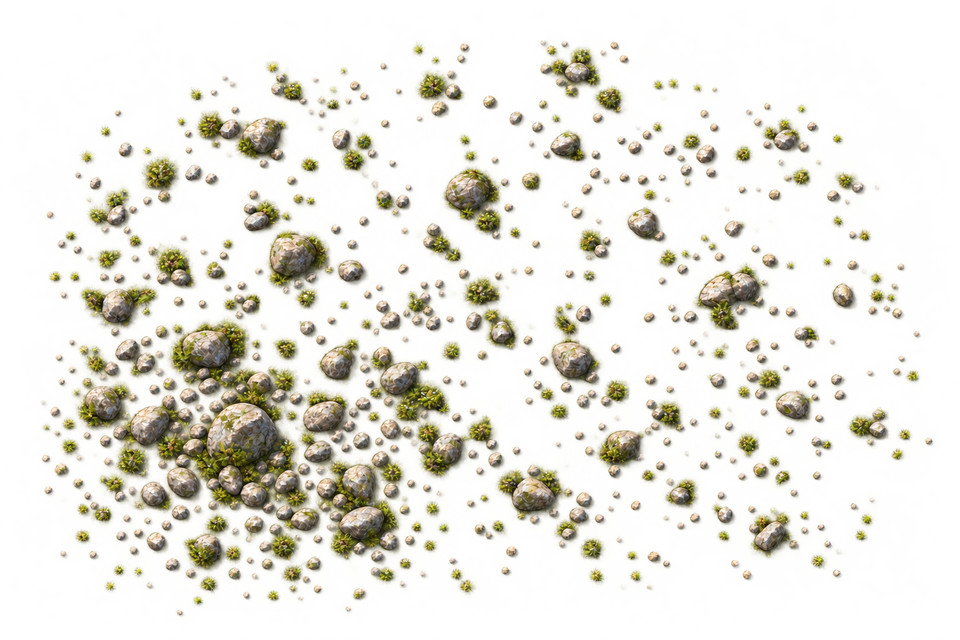
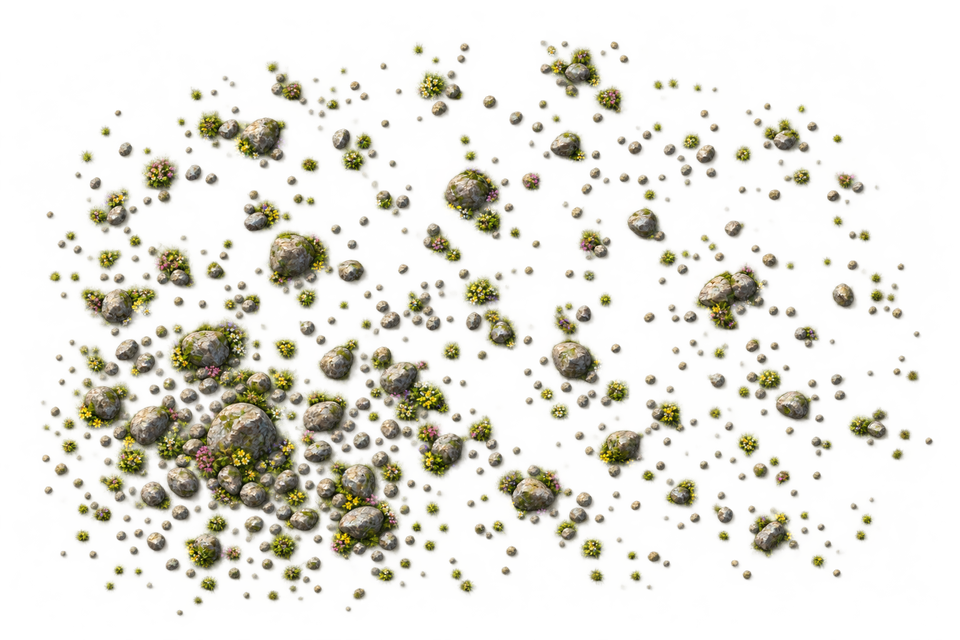
Spring boulder stamps: flower cushions at the stones' feet
The three spring boulder masters (-spring-v2) add yellow cowslips, white
anemones, violets and pink thrift in the tufts around the stones, laid onto
the summer cut-out so the stones, alpha and placement stay summer's.

Claude-Session: https://claude.ai/code/session_01L5uDarvbftJsD76ersxgnD

diff --git a/art/terrain/ground/prompt.md b/art/terrain/ground/prompt.md
@@ -4,7 +4,7 @@ title: Ground
 kind: terrain
 status: approved
 runtime_ids: mud, rough_w, shelled_w, stone, stoney_w, stamp/crater/4_-1.1_1.1_0.2/1, stamp/crater/4_-1.1_1.1_0.2/2, stamp/boulders/1/1, stamp/boulders/4_2.0_1.1_0.2/1, stamp/boulders/5_-1.1_0.2_-1.3_1.3/1, stamp/crater_w/1/1, stamp/crater_w/2_1.1/1, stamp/crater_w/2_-1.1/1, stamp/crater_w/6_-1.1_-4.2_-2.2_-3.3_-1.3/1, stamp/boulders_w/1/1, stamp/boulders_w/3_-1.1_-2.2/1, stamp/boulders_w/2_0.2/1
-masters: ground-crater-summer-v1.png, ground-crater-pair-summer-v1.png, ground-boulders-single-summer-v1.png, ground-boulders-four-summer-v1.png, ground-boulders-five-summer-v1.png, ground-mud-summer-v2.png, ground-stone-summer-v2.png, ground-rough-winter-v2.png, ground-shelled-winter-v2.png, ground-stony-winter-v2.png, ground-earth-bank-shared-v2.png, ground-earth-bank-shared-v1.png, ground-mud-summer-v1.png, ground-rough-winter-v1.png, ground-shelled-winter-v1.png, ground-stone-summer-v1.png, ground-stony-winter-v1.png, ground-crater-single-winter-v1.png, ground-crater-pair-se-winter-v1.png, ground-crater-pair-sw-winter-v1.png, ground-crater-field-six-winter-v1.png, ground-boulders-single-winter-v1.png, ground-boulders-sw-three-winter-v1.png, ground-boulders-vertical-two-winter-v1.png, ground-rough-winter-v3.png, ground-shelled-summer-v1.png, ground-shelled-winter-v3.png, ground-stone-autumn-v1.png, ground-boulders-five-autumn-v1.png, ground-boulders-four-autumn-v1.png, ground-boulders-single-autumn-v1.png, ground-crater-autumn-v1.png, ground-crater-pair-autumn-v1.png, ground-boulders-five-spring-v1.png, ground-boulders-four-spring-v1.png, ground-boulders-single-spring-v1.png, ground-crater-spring-v1.png, ground-crater-pair-spring-v1.png
+masters: ground-crater-summer-v1.png, ground-crater-pair-summer-v1.png, ground-boulders-single-summer-v1.png, ground-boulders-four-summer-v1.png, ground-boulders-five-summer-v1.png, ground-mud-summer-v2.png, ground-stone-summer-v2.png, ground-rough-winter-v2.png, ground-shelled-winter-v2.png, ground-stony-winter-v2.png, ground-earth-bank-shared-v2.png, ground-earth-bank-shared-v1.png, ground-mud-summer-v1.png, ground-rough-winter-v1.png, ground-shelled-winter-v1.png, ground-stone-summer-v1.png, ground-stony-winter-v1.png, ground-crater-single-winter-v1.png, ground-crater-pair-se-winter-v1.png, ground-crater-pair-sw-winter-v1.png, ground-crater-field-six-winter-v1.png, ground-boulders-single-winter-v1.png, ground-boulders-sw-three-winter-v1.png, ground-boulders-vertical-two-winter-v1.png, ground-rough-winter-v3.png, ground-shelled-summer-v1.png, ground-shelled-winter-v3.png, ground-stone-autumn-v1.png, ground-boulders-five-autumn-v1.png, ground-boulders-four-autumn-v1.png, ground-boulders-single-autumn-v1.png, ground-crater-autumn-v1.png, ground-crater-pair-autumn-v1.png, ground-boulders-five-spring-v1.png, ground-boulders-four-spring-v1.png, ground-boulders-single-spring-v1.png, ground-crater-spring-v1.png, ground-crater-pair-spring-v1.png, ground-boulders-single-spring-v2.png, ground-boulders-four-spring-v2.png, ground-boulders-five-spring-v2.png
 ---
 
 ## Look
@@ -84,6 +84,81 @@ Summer boulder stamps replace per-hex stone art across their complete clusters, 
 gaps over the shared meadow; winter stone art retains its context tiles.
 
 ## Post
+
+### Spring boulder-scatter bloom edit (2026-11-01)
+
+`ground-boulders-single-spring-v2.png` (`exec-3fa57416`, native 1374×1145 RGBA) is the flowering spring form of
+`ground-boulders-single-summer-v1.png` and replaces `-spring-v1` in the export. The edit adds cushions of yellow
+cowslips, white anemones, violets and pink thrift in the tufts at the stones' feet. It painted a meadow plate
+again (opaque 22.8 % against 5.5 %) and drifted (registered at scale 1.156, shift 24,12), so it is laid onto the summer cut-out: inside the
+summer alpha the edit's colour where either image is vegetation or the edit is a flower on summer vegetation,
+the summer pixel elsewhere; outside it only flowers within 36 px of the summer alpha (267 px). Whole RGB 118,109,78, L\* 45.1, hue 94
+(summer 113,104,76, L\* 43.2, hue 91). Selected: the spring terrain-stamps export takes it for `stamp/boulders/1/1_sp`. Attached:
+`ground-boulders-single-summer-v1.png` and `grass-spring-v1.png`. The prompt was:
+
+```text
+Seasonal edit ONLY of image 1, a cluster of grey boulders and pebbles with small grass tufts seen from straight above (strict nadir, 1374x1145 RGBA cut-out on transparency): turn it into the same spot in late April in full spring bloom. Keep the canvas size (1374x1145, 6:5 LANDSCAPE), the transparent area and every rock, slab and pebble exactly where it is, with its size and outline. Preserve every outline and position.
+Changes:
+- Spring wildflowers, the main change: at the foot of every larger boulder and in most grass tufts, add a low flowering cushion hugging the stone: clusters of yellow cowslips and primroses (about RGB 240,205,55), white wood anemones and daisies (about RGB 240,238,225), violet wild violets (about RGB 135,95,170) and a few pink thrift cushions (about RGB 215,125,160). Each cushion about 20 to 60 px across (1/25 to 1/60 of the canvas width), each flower head 4 to 8 px, clear dots of colour on fresh green leaves, not a haze. About 50 cushions in total, most beside the big stones; small pebbles get none or a single flower; nothing away from the stones.
+- Grass tufts and low shrubs: fresh young yellow-green spring grass as image 2 (lit blade tips near RGB 160,170,85, shaded near RGB 48,56,20).
+- Rocks: keep their shape and shading, tone the stone slightly darker and cooler (lit near RGB 170,166,152, shaded near RGB 85,84,78), with fresh bright green moss in the cracks and on the shaded sides.
+Unchanged: the soft upper-left light and short shadows, the strict nadir view.
+Transparency: alpha zero everywhere except the rocks, the tufts and the new flower cushions. No meadow plate or ground between the stones, no halo, no checkerboard, no background colour.
+Avoid: moving or resizing any rock, flowers floating away from the stones, a carpet of flowers over the whole canvas, saturated emerald or neon green, golden or straw cast, autumn colours, snow.
+
+Image 1 is the selected summer cut-out (ground-boulders-single-summer-v1) to edit: keep its layout, rock positions, sizes and transparency exactly. Image 2 is the selected spring meadow (grass-spring-v1), for the palette of the grass only; do not copy its layout.
+```
+
+
+### Spring four-boulder bloom edit (2026-11-01)
+
+`ground-boulders-four-spring-v2.png` (`exec-46336a17`, native 1536×1024 RGBA) is the flowering spring form of
+`ground-boulders-four-summer-v1.png` and replaces `-spring-v1` in the export. The edit adds cushions of yellow
+cowslips, white anemones, violets and pink thrift in the tufts at the stones' feet. It painted a meadow plate
+again (opaque 11.0 % against 4.1 %) and drifted (registered at scale 1.125, shift 27,14), so it is laid onto the summer cut-out: inside the
+summer alpha the edit's colour where either image is vegetation or the edit is a flower on summer vegetation,
+the summer pixel elsewhere; outside it only flowers within 36 px of the summer alpha (0 px). Whole RGB 127,119,91, L\* 49.2, hue 94
+(summer 125,117,92, L\* 48.4, hue 93). Selected: the spring terrain-stamps export takes it for `stamp/boulders/4_2.0_1.1_0.2/1_sp`. Attached:
+`ground-boulders-four-summer-v1.png` and `grass-spring-v1.png`. The prompt was:
+
+```text
+Seasonal edit ONLY of image 1, a cluster of grey boulders and pebbles with small grass tufts seen from straight above (strict nadir, 1536x1024 RGBA cut-out on transparency): turn it into the same spot in late April in full spring bloom. Keep the canvas size (1536x1024, 3:2 LANDSCAPE), the transparent area and every rock, slab and pebble exactly where it is, with its size and outline. Preserve every outline and position.
+Changes:
+- Spring wildflowers, the main change: at the foot of every larger boulder and in most grass tufts, add a low flowering cushion hugging the stone: clusters of yellow cowslips and primroses (about RGB 240,205,55), white wood anemones and daisies (about RGB 240,238,225), violet wild violets (about RGB 135,95,170) and a few pink thrift cushions (about RGB 215,125,160). Each cushion about 20 to 60 px across (1/25 to 1/60 of the canvas width), each flower head 4 to 8 px, clear dots of colour on fresh green leaves, not a haze. About 50 cushions in total, most beside the big stones; small pebbles get none or a single flower; nothing away from the stones.
+- Grass tufts and low shrubs: fresh young yellow-green spring grass as image 2 (lit blade tips near RGB 160,170,85, shaded near RGB 48,56,20).
+- Rocks: keep their shape and shading, tone the stone slightly darker and cooler (lit near RGB 170,166,152, shaded near RGB 85,84,78), with fresh bright green moss in the cracks and on the shaded sides.
+Unchanged: the soft upper-left light and short shadows, the strict nadir view.
+Transparency: alpha zero everywhere except the rocks, the tufts and the new flower cushions. No meadow plate or ground between the stones, no halo, no checkerboard, no background colour.
+Avoid: moving or resizing any rock, flowers floating away from the stones, a carpet of flowers over the whole canvas, saturated emerald or neon green, golden or straw cast, autumn colours, snow.
+
+Image 1 is the selected summer cut-out (ground-boulders-four-summer-v1) to edit: keep its layout, rock positions, sizes and transparency exactly. Image 2 is the selected spring meadow (grass-spring-v1), for the palette of the grass only; do not copy its layout.
+```
+
+
+### Spring five-boulder bloom edit (2026-11-01)
+
+`ground-boulders-five-spring-v2.png` (`exec-59d2f958`, native 1374×1145 RGBA) is the flowering spring form of
+`ground-boulders-five-summer-v1.png` and replaces `-spring-v1` in the export. The edit adds cushions of yellow
+cowslips, white anemones, violets and pink thrift in the tufts at the stones' feet. It painted a meadow plate
+again (opaque 31.5 % against 4.4 %) and drifted (registered at scale 1.006, shift 7,-1), so it is laid onto the summer cut-out: inside the
+summer alpha the edit's colour where either image is vegetation or the edit is a flower on summer vegetation,
+the summer pixel elsewhere; outside it only flowers within 36 px of the summer alpha (16 px). Whole RGB 117,111,76, L\* 45.8, hue 98, with fresh moss on the stones
+(summer 111,103,75, L\* 42.9, hue 94). Selected: the spring terrain-stamps export takes it for `stamp/boulders/5_-1.1_0.2_-1.3_1.3/1_sp`. Attached:
+`ground-boulders-five-summer-v1.png` and `grass-spring-v1.png`. The prompt was:
+
+```text
+Seasonal edit ONLY of image 1, a cluster of grey boulders and pebbles with small grass tufts seen from straight above (strict nadir, 1374x1145 RGBA cut-out on transparency): turn it into the same spot in late April in full spring bloom. Keep the canvas size (1374x1145, 6:5 LANDSCAPE), the transparent area and every rock, slab and pebble exactly where it is, with its size and outline. Preserve every outline and position.
+Changes:
+- Spring wildflowers, the main change: at the foot of every larger boulder and in most grass tufts, add a low flowering cushion hugging the stone: clusters of yellow cowslips and primroses (about RGB 240,205,55), white wood anemones and daisies (about RGB 240,238,225), violet wild violets (about RGB 135,95,170) and a few pink thrift cushions (about RGB 215,125,160). Each cushion about 20 to 60 px across (1/25 to 1/60 of the canvas width), each flower head 4 to 8 px, clear dots of colour on fresh green leaves, not a haze. About 50 cushions in total, most beside the big stones; small pebbles get none or a single flower; nothing away from the stones.
+- Grass tufts and low shrubs: fresh young yellow-green spring grass as image 2 (lit blade tips near RGB 160,170,85, shaded near RGB 48,56,20).
+- Rocks: keep their shape and shading, tone the stone slightly darker and cooler (lit near RGB 170,166,152, shaded near RGB 85,84,78), with fresh bright green moss in the cracks and on the shaded sides.
+Unchanged: the soft upper-left light and short shadows, the strict nadir view.
+Transparency: alpha zero everywhere except the rocks, the tufts and the new flower cushions. No meadow plate or ground between the stones, no halo, no checkerboard, no background colour.
+Avoid: moving or resizing any rock, flowers floating away from the stones, a carpet of flowers over the whole canvas, saturated emerald or neon green, golden or straw cast, autumn colours, snow.
+
+Image 1 is the selected summer cut-out (ground-boulders-five-summer-v1) to edit: keep its layout, rock positions, sizes and transparency exactly. Image 2 is the selected spring meadow (grass-spring-v1), for the palette of the grass only; do not copy its layout.
+```
+
 
 ### Spring crater-pair edit (2026-11-01)
 

diff --git a/art/tileset.md b/art/tileset.md
@@ -133,7 +133,7 @@ Each compound is one painting with its grounds: lawns, trees and verges.
 3. **Spring**, in the same order.
    Spring status: grass (base, detail tiles with dandelions, daisies and straw patches, meadow props),
    stone, forest (crowns, floor, contexts, copses), hills, mountain, mount, stream, shore, lakeside, the
-   boulder, knoll and crater stamps, the compounds (hq, cmp, ruin, factory, the houses) and the airfield
+   boulder (with flower cushions at the stones' feet), knoll and crater stamps, the compounds (hq, cmp, ruin, factory, the houses) and the airfield
    are installed, made like autumn's: edits registered onto the summer master that keep its alpha and its
    non-vegetation pixels. Spring water is the summer pixels without a pack grade. Open: the road, path and
    cross surfaces draw their summer form (their verges are the spring meadow), and
